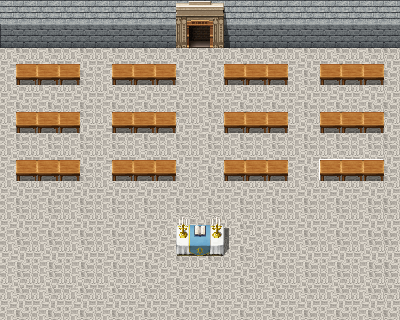
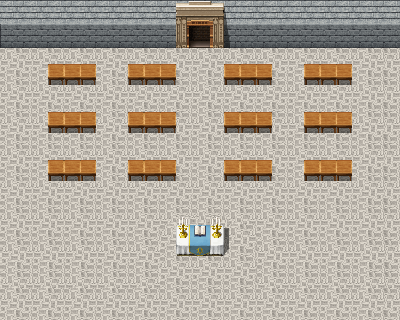
npc positioning

diff --git a/scripts/npcmodel.js b/scripts/npcmodel.js
@@ -5,35 +5,54 @@ import { toPixel } from "./utils.js";
 
 const NPCENUM = {
     0: "NOT_BOMB",
-    1: "IS_BOMB",
+    1: "gameOver",
     2: "CABBAGE",
     3: "IRON_ORE",
     4: "CONTROLLER", 
 }
 
 class MineSweeper {
+    
     probability = [] ;
     firstLine = [0, 2, 3, 0, 3, 0, 0, 0, 2, 2, 2, 2, 0, 3, 3] ;
     otherLines = [0, 2, 1, 1, 1, 4, 4, 4, 4, 3, 0, 1, 0, 2, 2, 2, 2, 0, 1, 5] ;
     constructor() {}
 
     riggingBomb(mainChar) {
+        let currentX ;
+        let currentY = 4 ;
+
         let arrayOfent = []
         arrayOfent.push(mainChar) ;
-        for (let x = 0; x < 24; x++) {
-            for (let y = 0; y < 3; y++) {
-                if (x == 0) this.probability = this.firstLine ;
+        for (let y = 0; y < 3; y++) {
+            currentX = 3 ;
+            for (let x = 0; x < 12; x++) {
+                if (y == 0) this.probability = this.firstLine ;
                 else this.probability = this.otherLines ;
-                let key = Math.floor(Math.random() * 4) ;
-                let npc = new Entity(commoner) ;
-                npc.status = NPCENUM[key] ;
-                npc.x = toPixel(x) ;
-                npc.y = toPixel(y) ;
-                arrayOfent.push(npc)
+
+                let npc = this.createNpc() ;
+                
+                if (x % 3 == 0) currentX += 2 
+                this.setNpcPosition(npc, currentX, currentY) ;
+                currentX++ 
+
+                arrayOfent.push(npc) ;
             }
+            currentY += 3 ;
         }
-        console.log(arrayOfent) ;
         return arrayOfent ;
+    }
+
+    createNpc() {
+        let key = Math.floor(Math.random() * 4) ;
+        let npc = new Entity(commoner) ;
+        npc.status = NPCENUM[key] ;
+        return npc ;
+    }
+
+    setNpcPosition(npc, currentX, currentY) {
+        npc.x = toPixel(currentX) ;
+        npc.y = toPixel(currentY) ;
     }
 }
 

diff --git a/scripts/map.js b/scripts/map.js
@@ -1,3 +1,4 @@
+import Entity from "./abstracted/entity.js";
 import GeneralObject from "./base/generalobject.js";
 import MineSweeper from "./npcmodel.js";
 
@@ -27,24 +28,9 @@ class Map extends GeneralObject {
         return this.reservedArea[`${entityX},${entityY}`] 
     }
 
-    event = [() => { this.entities["char1"].moveChar("South") },
-    () => { this.entities["char1"].moveChar("South") },
-    () => { this.entities["char1"].moveChar("South") },
-    () => { this.entities["char1"].moveChar("South") },
-    () => { this.entities["char1"].moveChar("South") },
-    () => { this.entities["char1"].moveChar("North") },
-    () => { this.entities["char1"].moveChar("North") },
-    () => { this.entities["char1"].moveChar("North") },
-    () => { this.entities["char1"].moveChar("North") },
-    () => { this.entities["char1"].moveChar("West") },
-    () => { this.entities["char1"].moveChar("West") },
-    () => { this.entities["char1"].moveChar("West") },
-    () => { this.entities["char1"].moveChar("West") }, ] ;
-    index = 0 ;
-    executeEvent() {
-        this.event[this.index]() ;
-        console.log(this.index);
-        this.index = (this.index + 1) % 12 ; 
+    checkForEvent(mainChar) {
+        let event = this.lookFront(mainChar.x, mainChar.y, mainChar.direction, mainChar.speed)
+        return event ;
     }
 
     //Area handling

diff --git a/scripts/customcanvas.js b/scripts/customcanvas.js
@@ -72,10 +72,8 @@ class CustomCanvas {
     }
 
     onZpressed() {
-        console.log("z is pressed") ;
-        let event = this.church.lookFront(this.pivot.x, this.pivot.y, this.keyStack.first, this.pivot.speed)
-        if (!(event instanceof Entity)) return
-        console.log(event.status) ;
+        let event = this.church.checkForEvent(this.pivot) ;
+        this[event]() ;
     }
 
     onKeyUp(key) { 
@@ -87,6 +85,11 @@ class CustomCanvas {
         if (key == "z") this.onZpressed() 
         const dir = this.movements[key] ;
         if (dir && !this.keyStack.contains(dir)) { this.keyStack.pushToTop(dir) }
+    }
+
+    gameOver() {
+        document.querySelector(".game-over").style.display = block; 
+        document.querySelector(".floor").style.display = none ;
     }
 
     computeX() { return this.canvas.width/2 - this.pivot.x }

diff --git a/scripts/important/mapdata.js b/scripts/important/mapdata.js
@@ -9,12 +9,7 @@ export const churchObj = {
         src: "../resource/assets/mapchips/Mapmv.png"
     },
     tileInfo: {
-        [asGrid(3,5)]: true,
-        [asGrid(4,5)]: true,
-        [asGrid(5,5)]: true,
-        [asGrid(6,5)]: true,
-        [asGrid(3,6)]: true,
-        [asGrid(7,6)]: true,
+        
     }, //refactor to objects
     objects: {
         main: new Entity(mainChar), 

diff --git a/scripts/important/chardata.js b/scripts/important/chardata.js
@@ -33,7 +33,7 @@ const mainCharAnim =  {
 }
 export const mainChar = {
     isMainChar: true,
-    x: toPixel(16),
+    x: toPixel(12),
     y: toPixel(3),
     height: 32,
     width: 25,
